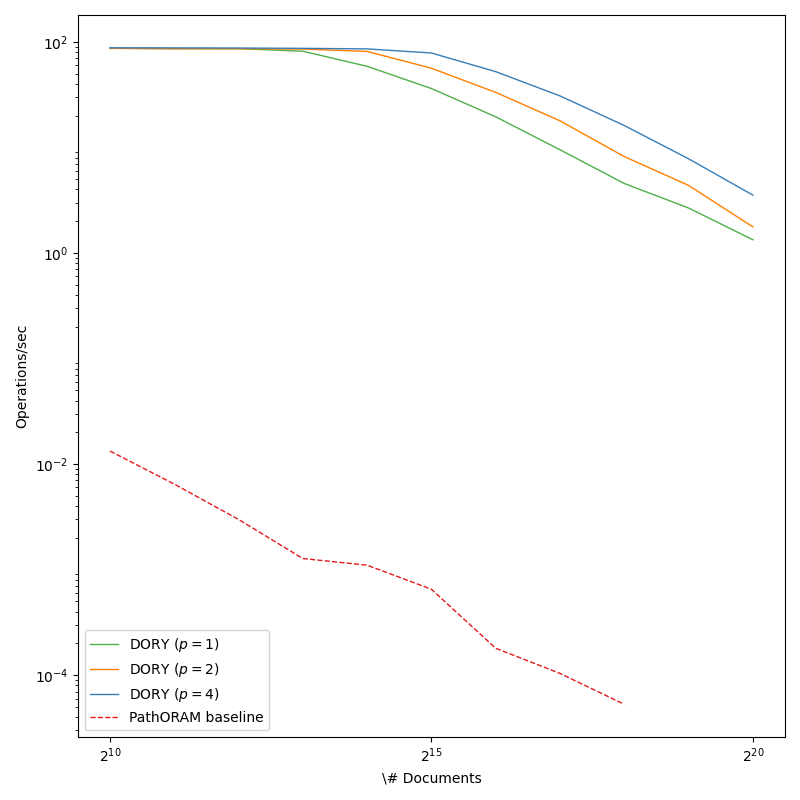
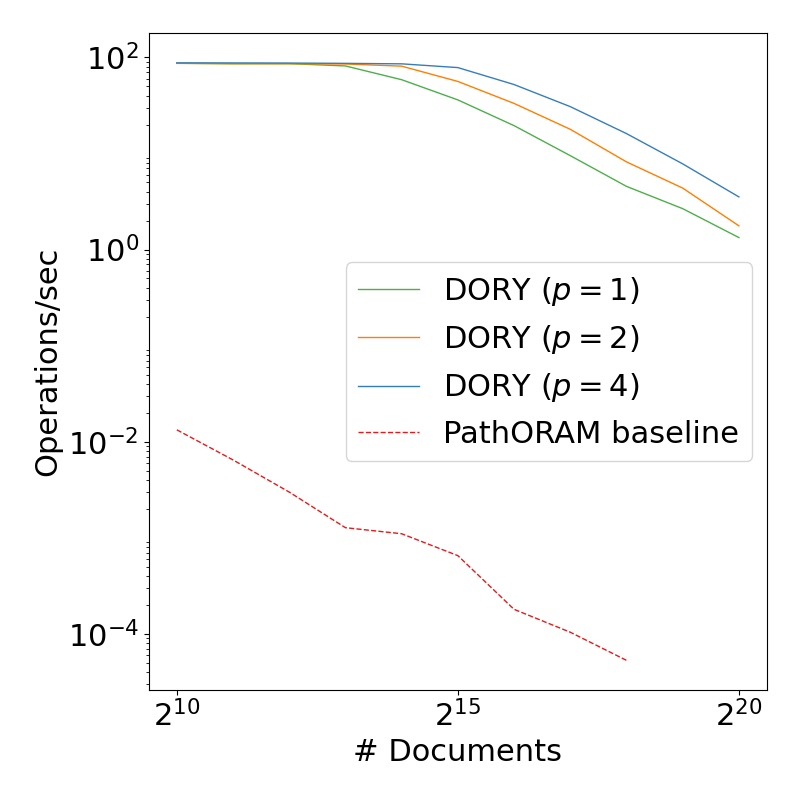
update ref plots

diff --git a/bench/plot_fig10a.py b/bench/plot_fig10a.py
@@ -19,6 +19,8 @@ dory_2_color = hash_colors[4]
 dory_4_color = hash_colors[1]
 oram_color =  hash_colors[0]
 
+plt.rcParams.update({'font.size':22})
+
 dory_1_y = []
 with open("out/dory_throughput_1_1_9.dat", 'r') as f:
     for i, line in enumerate(f):
@@ -56,7 +58,7 @@ ax.loglog(x, dory_1_y, label=r"DORY ($p=1$)", basex=2, basey=10, color=dory_1_co
 ax.loglog(x, dory_2_y, label=r"DORY ($p=2$)", basex=2, basey=10, color=dory_2_color, linewidth=1)
 ax.loglog(x, dory_4_y, label=r"DORY ($p=4$)", basex=2, basey=10, color=dory_4_color, linewidth=1)
 ax.loglog(oram_x, oram_y, label=r"PathORAM baseline", basex=2, basey=10, color=oram_color, linewidth=1, linestyle="dashed")
-ax.set_xlabel("\# Documents")
+ax.set_xlabel("# Documents")
 ax.set_ylabel("Operations/sec")
 ax.set_xticks([1024, 32768, 1048576])
 ax.set_yticks([100, 1, 0.01, 0.0001])

diff --git a/bench/plot_fig10b.py b/bench/plot_fig10b.py
@@ -19,6 +19,8 @@ dory_2_color = hash_colors[4]
 dory_4_color = hash_colors[1]
 oram_color =  hash_colors[0]
 
+plt.rcParams.update({'font.size':22})
+
 dory_1_y = []
 with open("out/dory_throughput_1_5_5.dat", 'r') as f:
     for i, line in enumerate(f):
@@ -56,7 +58,7 @@ ax.loglog(x, dory_1_y, label=r"DORY ($p=1$)", basex=2, basey=10, color=dory_1_co
 ax.loglog(x, dory_2_y, label=r"DORY ($p=2$)", basex=2, basey=10, color=dory_2_color, linewidth=1)
 ax.loglog(x, dory_4_y, label=r"DORY ($p=4$)", basex=2, basey=10, color=dory_4_color, linewidth=1)
 ax.loglog(oram_x, oram_y, label=r"PathORAM baseline", basex=2, basey=10, color=oram_color, linewidth=1, linestyle="dashed")
-ax.set_xlabel("\# Documents")
+ax.set_xlabel("# Documents")
 ax.set_ylabel("Operations/sec")
 ax.set_xticks([1024, 32768, 1048576])
 ax.set_yticks([100, 1, 0.01, 0.0001])

diff --git a/bench/plot_fig10c.py b/bench/plot_fig10c.py
@@ -19,6 +19,8 @@ dory_2_color = hash_colors[4]
 dory_4_color = hash_colors[1]
 oram_color =  hash_colors[0]
 
+plt.rcParams.update({'font.size':22})
+
 dory_1_y = []
 with open("out/dory_throughput_1_9_1.dat", 'r') as f:
     for i, line in enumerate(f):
@@ -56,7 +58,7 @@ ax.loglog(x, dory_1_y, label=r"DORY ($p=1$)", basex=2, basey=10, color=dory_1_co
 ax.loglog(x, dory_2_y, label=r"DORY ($p=2$)", basex=2, basey=10, color=dory_2_color, linewidth=1)
 ax.loglog(x, dory_4_y, label=r"DORY ($p=4$)", basex=2, basey=10, color=dory_4_color, linewidth=1)
 ax.loglog(oram_x, oram_y, label=r"PathORAM baseline", basex=2, basey=10, color=oram_color, linewidth=1, linestyle="dashed")
-ax.set_xlabel("\# Documents")
+ax.set_xlabel("# Documents")
 ax.set_ylabel("Operations/sec")
 ax.set_xticks([1024, 32768, 1048576])
 ax.set_yticks([100, 1, 0.01, 0.0001])

diff --git a/bench/plot_fig11a.py b/bench/plot_fig11a.py
@@ -19,6 +19,8 @@ dory_2_color = hash_colors[4]
 dory_4_color = hash_colors[1]
 oram_color =  hash_colors[0]
 
+plt.rcParams.update({'font.size':22})
+
 dory_1_y = []
 with open("out/dory_throughput_1_1_9.dat", 'r') as f:
     for i, line in enumerate(f):
@@ -60,11 +62,11 @@ print(x)
 ax.plot(x, plot_1_y, label=r"DORY ($p=1$)", color=dory_1_color, linewidth=1)
 ax.plot(x, plot_2_y, label=r"DORY ($p=2$)", color=dory_2_color, linewidth=1)
 ax.plot(x, plot_4_y, label=r"DORY ($p=4$)", color=dory_4_color, linewidth=1)
-ax.set_xlabel("\# Documents")
+ax.set_xlabel("# Documents")
 ax.set_ylabel("Relative throughput")
 ax.set_xticks([ 500000, 1000000])
 ax.set_xticklabels(["0.5M", "1M"])
-ax.set_title("10\% U, 90\% S")
+ax.set_title("10% U, 90% S")
 
 plt.legend()
 plt.tight_layout()

diff --git a/bench/plot_fig11b.py b/bench/plot_fig11b.py
@@ -19,6 +19,8 @@ dory_2_color = hash_colors[4]
 dory_4_color = hash_colors[1]
 oram_color =  hash_colors[0]
 
+plt.rcParams.update({'font.size':22})
+
 dory_1_y = []
 with open("out/dory_throughput_1_5_5.dat", 'r') as f:
     for i, line in enumerate(f):
@@ -60,11 +62,11 @@ print(x)
 ax.plot(x, plot_1_y, label=r"DORY ($p=1$)", color=dory_1_color, linewidth=1)
 ax.plot(x, plot_2_y, label=r"DORY ($p=2$)", color=dory_2_color, linewidth=1)
 ax.plot(x, plot_4_y, label=r"DORY ($p=4$)", color=dory_4_color, linewidth=1)
-ax.set_xlabel("\# Documents")
+ax.set_xlabel("# Documents")
 ax.set_ylabel("Relative throughput")
 ax.set_xticks([ 500000, 1000000])
 ax.set_xticklabels(["0.5M", "1M"])
-ax.set_title("10\% U, 90\% S")
+ax.set_title("10% U, 90% S")
 
 plt.legend()
 plt.tight_layout()

diff --git a/bench/plot_fig11c.py b/bench/plot_fig11c.py
@@ -19,6 +19,8 @@ dory_2_color = hash_colors[4]
 dory_4_color = hash_colors[1]
 oram_color =  hash_colors[0]
 
+plt.rcParams.update({'font.size':22})
+
 dory_1_y = []
 with open("out/dory_throughput_1_9_1.dat", 'r') as f:
     for i, line in enumerate(f):
@@ -60,11 +62,11 @@ print(x)
 ax.plot(x, plot_1_y, label=r"DORY ($p=1$)", color=dory_1_color, linewidth=1)
 ax.plot(x, plot_2_y, label=r"DORY ($p=2$)", color=dory_2_color, linewidth=1)
 ax.plot(x, plot_4_y, label=r"DORY ($p=4$)", color=dory_4_color, linewidth=1)
-ax.set_xlabel("\# Documents")
+ax.set_xlabel("# Documents")
 ax.set_ylabel("Relative throughput")
 ax.set_xticks([ 500000, 1000000])
 ax.set_xticklabels(["0.5M", "1M"])
-ax.set_title("10\% U, 90\% S")
+ax.set_title("10% U, 90% S")
 
 plt.legend()
 plt.tight_layout()
